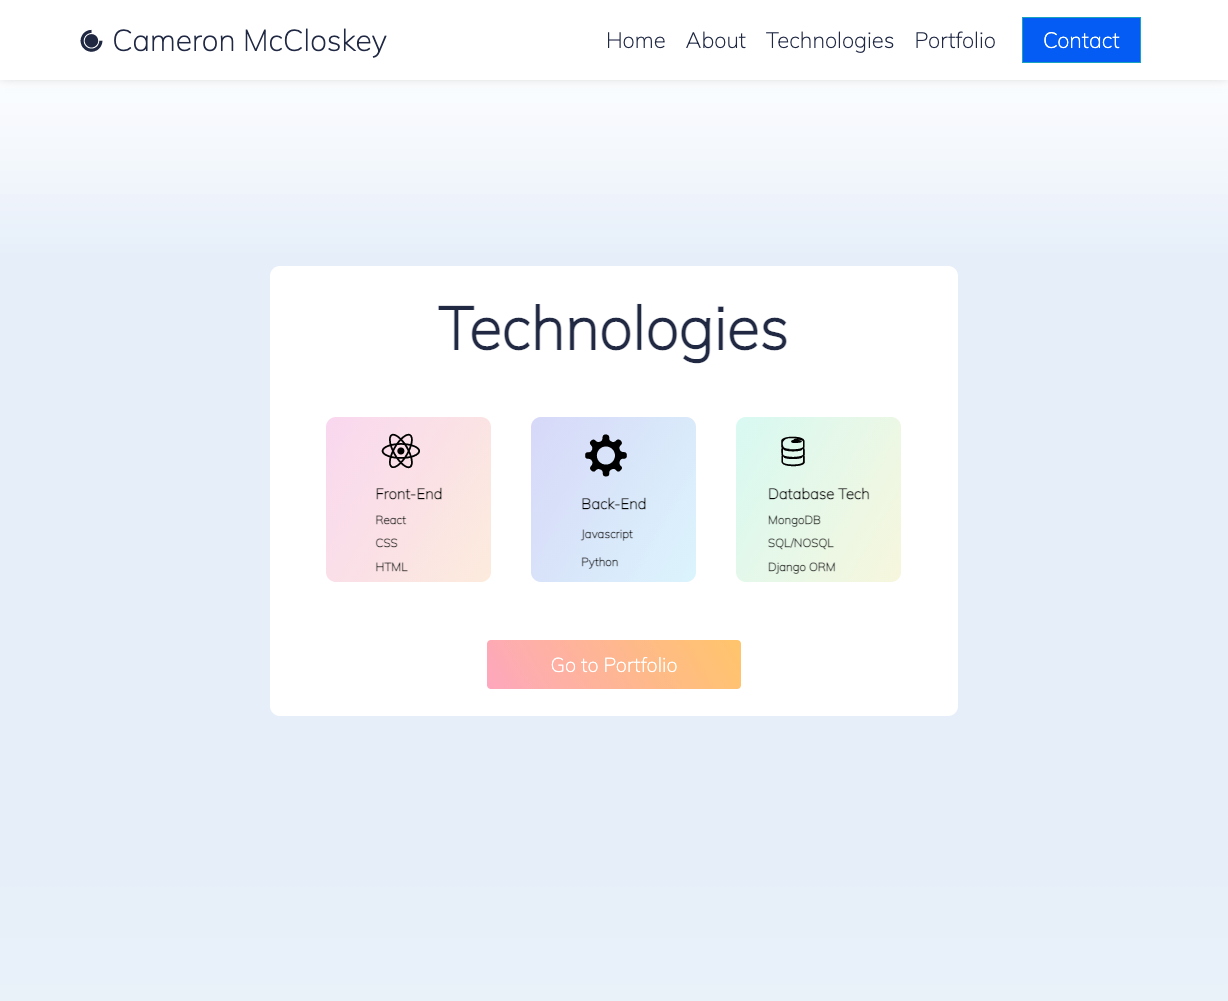
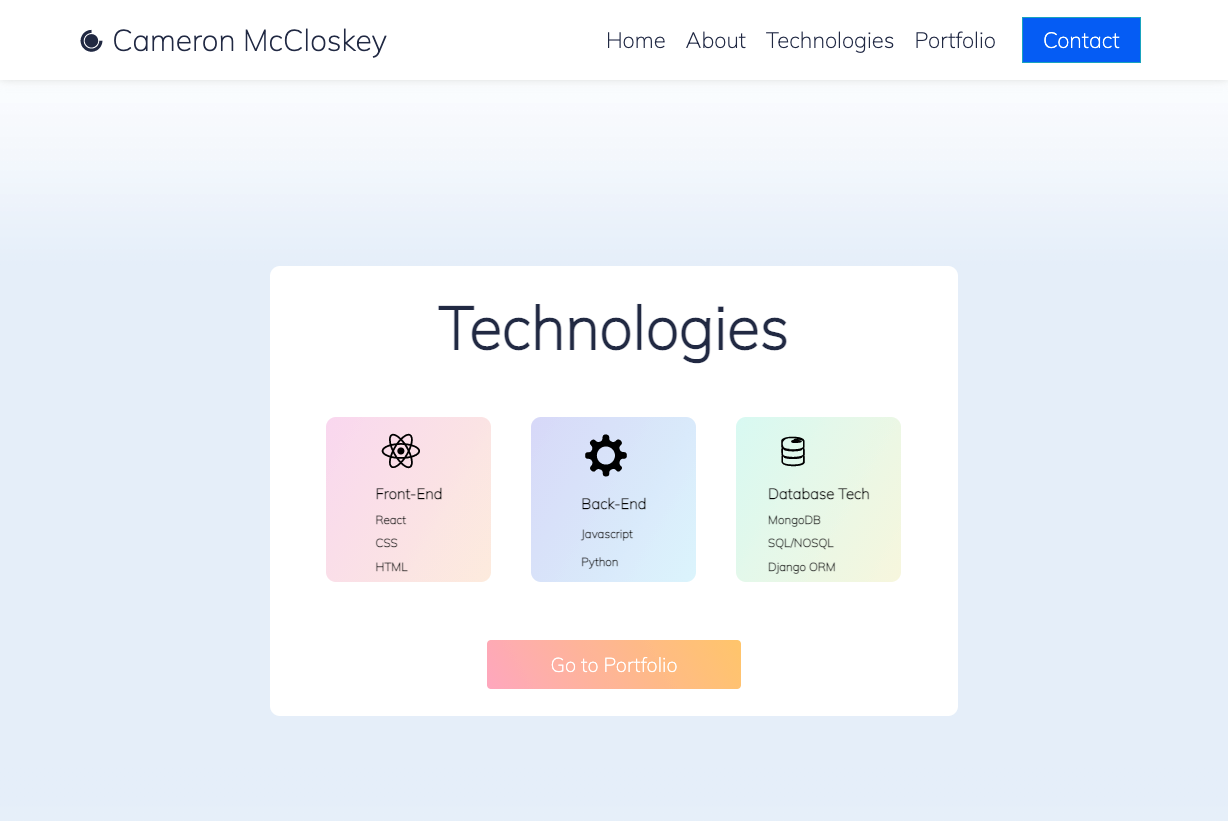
Further design refinements

diff --git a/src/components/Projects/Projects.js b/src/components/Projects/Projects.js
@@ -22,40 +22,43 @@ const Projects = () => {
               </h2>
             </div>
             <div className='btn-wrapper'>
-              <button className='prj-btn'>Code</button>
-              <button className='prj-btn'>Live Site</button>
+              <button className='prj-btn'><a href='https://github.com/cameronmcc/personal-website-v2'></a>Code</button>
+              <button className='prj-btn'><a href='cameronmccloskey.com'></a>Live Site
+              </button>
             </div>
           </div>
           <div className='proj-2'>
-            <div className='proj-title'>Personal Website</div>
+            <div className='proj-title'>React Menu App</div>
             <div className='proj-img-wrapper'>
-              <img className='proj-img' src='proj1.png' alt='proj1.png'></img>
+              <img className='proj-img' src='proj2.png' alt='proj1.png'></img>
             </div>
             <div className='proj-text-wrapper'>
               <h2>
-                A personal website using React. Fully dynamic using Hooks,
-                useState, Smooth-scrooll, and modals.
+                A React menu app that maps through data and dynamically generates Category tabs for quick updates.
               </h2>
             </div>
             <div className='btn-wrapper'>
-              <button className='prj-btn'>Code</button>
-              <button className='prj-btn'>Live Site</button>
+              <button className='prj-btn'>
+                <a href='https://github.com/cameronmcc/menuProject'>
+                  </a>
+                  Code</button>
+              <button className='prj-btn'><a href='https://mccloskeymenuproject.netlify.app/'></a>Live Site</button>
             </div>
           </div>
           <div className='proj-3'>
-            <div className='proj-title'>Personal Website</div>
+            <div className='proj-title'>Auto Slider</div>
             <div className='proj-img-wrapper'>
-              <img className='proj-img' src='proj1.png' alt='proj1.png'></img>
+              <img className='proj-img' src='proj3.png' alt='proj1.png'></img>
             </div>
             <div className='proj-text-wrapper'>
               <h2>
-                A personal website using React. Fully dynamic using Hooks,
-                useState, Smooth-scrooll, and modals.
+                A simple review app that maps through user data and autoscrolls between users if next buttons arent pressed.
               </h2>
             </div>
             <div className='btn-wrapper'>
-              <button className='prj-btn'>Code</button>
-              <button className='prj-btn'>Live Site</button>
+              <button className='prj-btn'><a href='https://github.com/cameronmcc/slider'></a>
+                Code</button>
+              <button className='prj-btn'><a href='https://mccloskeymenuproject.netlify.app/'></a>Live Site</button>
             </div>
           </div>
         </section>

diff --git a/src/components/Technologies/Technologies.js b/src/components/Technologies/Technologies.js
@@ -12,20 +12,20 @@ const Technologies = () => {
           <div className='tech-heading'>Technologies</div>
           <section className='tech-items-container'>
             <div className='tech-item-1'>
-              <DiReact size='5rem' classname='tech-icons' />
+              <DiReact size='5rem' className='tech-icons' />
               <h1>Front-End</h1>
               <h3>React</h3>
               <h3>CSS</h3>
               <h3>HTML</h3>
             </div>
             <div className='tech-item-2'>
-              <DiAptana size='5rem' classname='tech-icons' />
+              <DiAptana size='5rem' className='tech-icons' />
               <h1>Back-End</h1>
               <h3>Javascript</h3>
               <h3>Python</h3>
             </div>
             <div className='tech-item-3'>
-              <DiFirebase size='5rem' classname='tech-icons' />
+              <DiFirebase size='5rem' className='tech-icons' />
               <h1>Database Tech</h1>
               <h3>MongoDB</h3>
               <h3>SQL/NOSQL</h3>

diff --git a/src/components/Projects/style.css b/src/components/Projects/style.css
@@ -1,12 +1,12 @@
 .project-gradient-container-top {
-  height: 50rem;
+  height: 30rem;
   width: 100%;
   display: block;
   background: linear-gradient(#e8f0fa, 60%, #f3f8ff);
 }
 
 .project-gradient-container-bottom {
-  height: 30rem;
+  height: 10rem;
   width: 100%;
   display: block;
   background: linear-gradient(#f3f8ff, 70%, white);
@@ -58,17 +58,14 @@
 }
 
 .proj-title {
+  display: flex;
   color: #555b6d;
-  display: inline-block;
-  font-family: "IBM Plex Sans", sans-serif;
-  font-size: 2rem;
   text-align: center;
-  padding-left: 2.5rem;
+  overflow: hidden;
+  white-space: nowrap;
+  font-family: "IBM Plex Sans", sans-serif;
+  font-size: 2.2rem;
 }
-
-/* .proj-1 {
-  background: linear-gradient(#fff1f1, #f1ffec);
-} */
 
 .proj-1,
 .proj-2,
@@ -77,7 +74,7 @@
   filter: drop-shadow(0px 3px 10px rgba(0, 0, 0, 0.25));
   border-radius: 5px;
   display: flex;
-  flex-direction: column;
+  flex-direction: row;
   flex-wrap: wrap;
   align-content: stretch;
   justify-content: space-evenly;

diff --git a/src/components/Technologies/style.css b/src/components/Technologies/style.css
@@ -1,5 +1,5 @@
 .gradient-container-top {
-  height: 25rem;
+  height: 30rem;
   width: 100%;
   display: block;
   background: linear-gradient(white, 60%, #e8f0fa);
